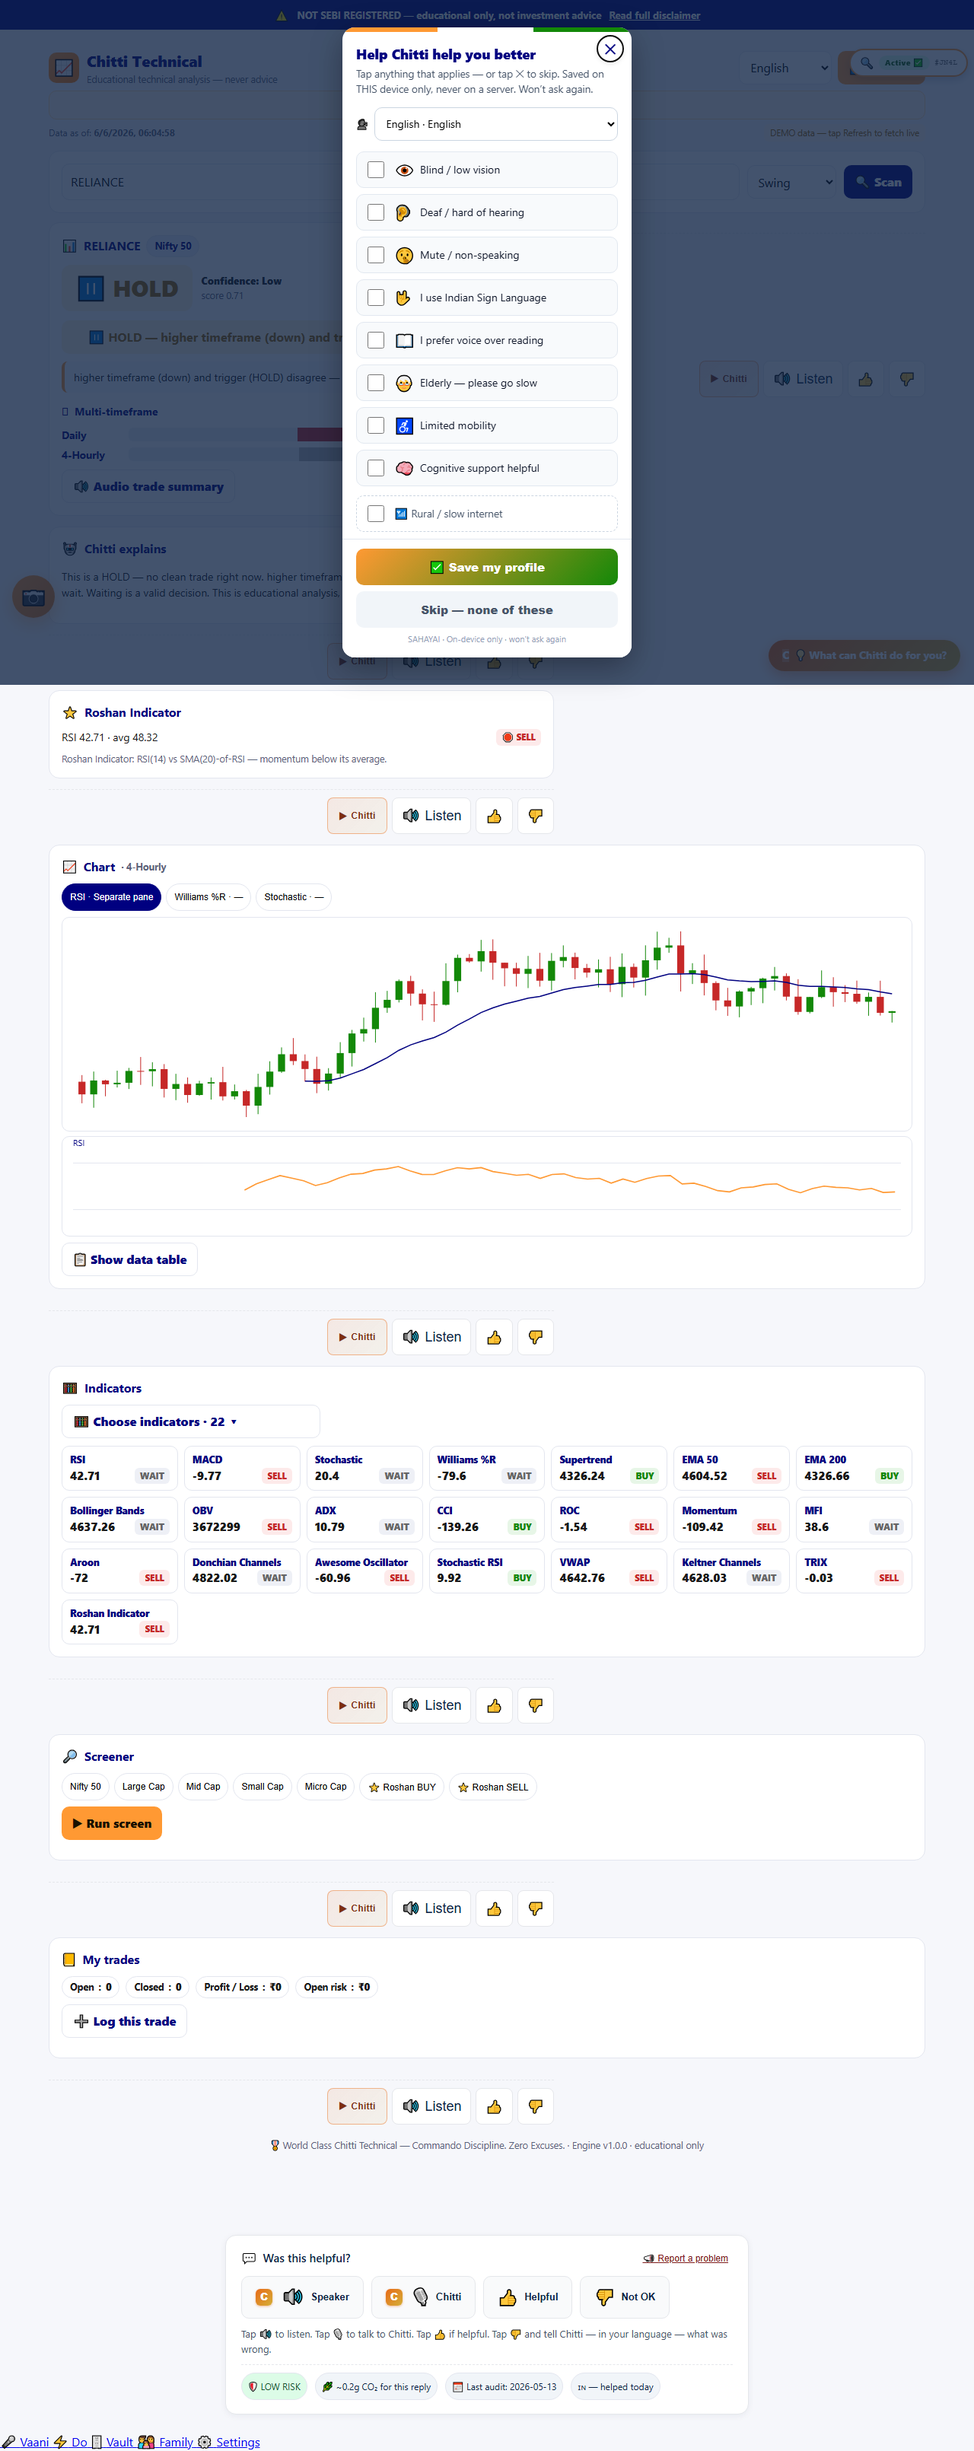
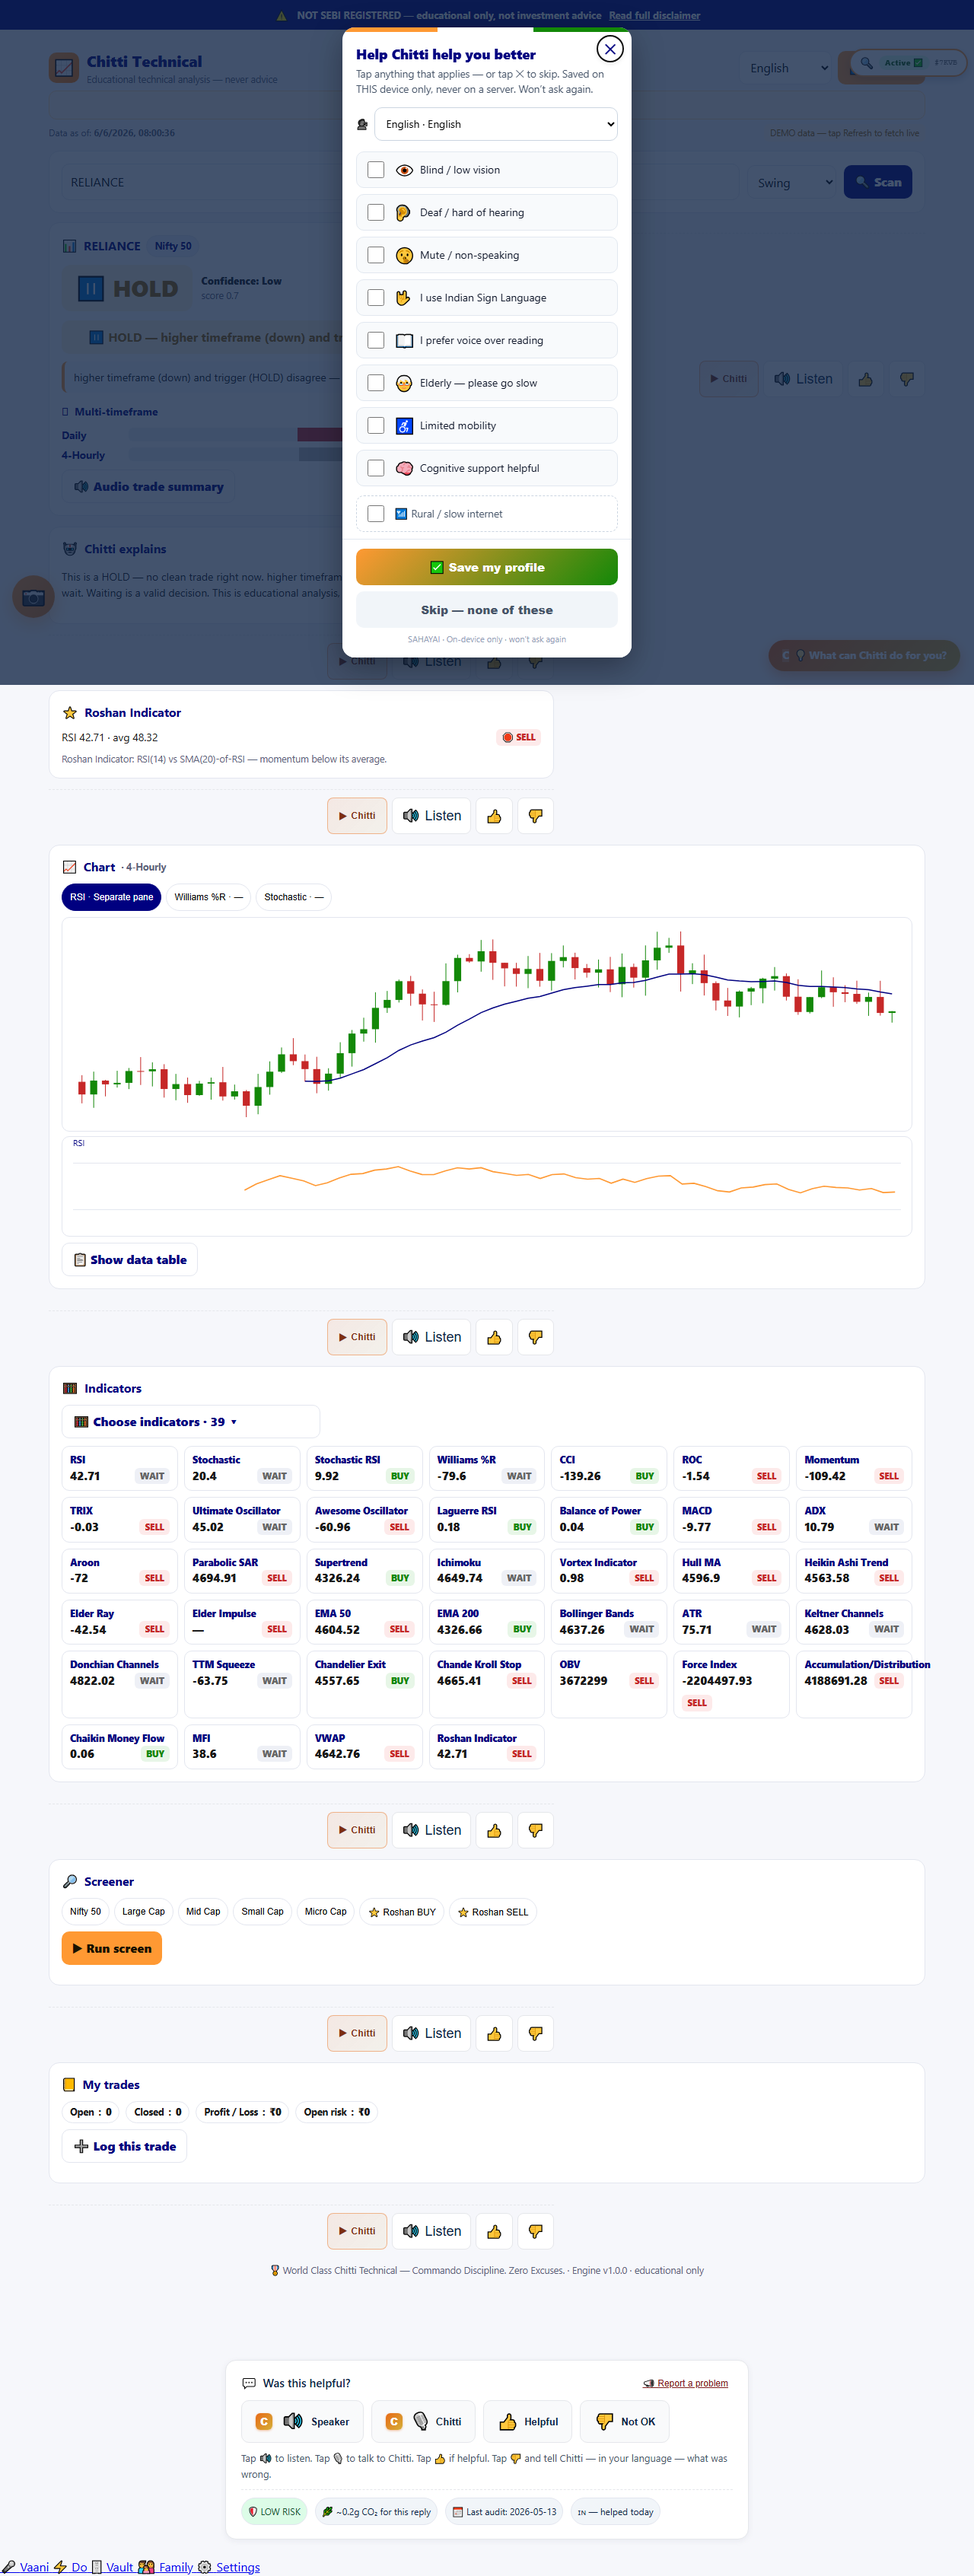
feat(technical): full 39-indicator catalogue in the dropdown (Sire: include ALL)
The legacy scanner had ~38 indicators; I'd only ported 22. Added the missing 17 to the
deterministic engine so the dropdown lists the complete catalogue:
Ultimate Oscillator, Parabolic SAR, Ichimoku, Elder Ray, Elder Impulse, ATR, Force Index,
Accumulation/Distribution, Chaikin Money Flow, TTM Squeeze, Vortex, Chandelier Exit, Hull MA,
Laguerre RSI, Heikin Ashi Trend, Balance of Power, Chande Kroll Stop (+ wma/hma helpers).
INDICATOR_NAMES now lists 39 (grouped: momentum / trend / volatility / volume / custom-Roshan);
each carries BUY/SELL/WAIT (ATR is neutral/WAIT — abstains from the vote).

QA (self-run): node 270/0 — incl. a new "no phantoms" check (every dropdown name is actually
computed by indicatorSet) + all 28 catalogue indicators verified; guardrails still 0/96.
Playwright 27/0, 0 page errors — indicator_dropdown_lists_all = 39, toggle none=0/all=39.

diff --git a/chitti_technical_engine.js b/chitti_technical_engine.js
@@ -305,10 +305,158 @@
     return out;
   }
 
-  // master list — exactly what indicatorSet can produce (drives the indicator dropdown)
-  var INDICATOR_NAMES = ['RSI', 'MACD', 'Stochastic', 'Williams %R', 'Supertrend', 'EMA 50', 'EMA 200',
-    'Bollinger Bands', 'OBV', 'ADX', 'CCI', 'ROC', 'Momentum', 'MFI', 'Aroon', 'Donchian Channels',
-    'Awesome Oscillator', 'Stochastic RSI', 'VWAP', 'Keltner Channels', 'TRIX', 'Roshan Indicator'];
+  // ── full catalogue extras (so the dropdown matches the legacy scanner) ──
+  function wma(values, period) {
+    var out = new Array(values.length).fill(null), denom = period * (period + 1) / 2;
+    for (var i = period - 1; i < values.length; i++) { var s = 0; for (var k = 0; k < period; k++) s += values[i - k] * (period - k); out[i] = s / denom; }
+    return out;
+  }
+  function hma(values, period) {
+    period = period || 20;
+    var half = wma(values, Math.max(1, Math.floor(period / 2))), full = wma(values, period);
+    var raw = values.map(function (_, i) { return (half[i] == null || full[i] == null) ? null : 2 * half[i] - full[i]; });
+    var rawC = raw.filter(function (v) { return v != null; });
+    var h = wma(rawC, Math.max(1, Math.round(Math.sqrt(period))));
+    var out = new Array(values.length).fill(null), off = values.length - h.length;
+    for (var i = 0; i < h.length; i++) out[off + i] = h[i];
+    return out;
+  }
+  function ultimateOsc(candles) {
+    var bp = [], tr = [];
+    for (var i = 0; i < candles.length; i++) {
+      if (i === 0) { bp.push(0); tr.push(candles[i].high - candles[i].low); continue; }
+      var pc = candles[i - 1].close, minLP = Math.min(candles[i].low, pc), maxHP = Math.max(candles[i].high, pc);
+      bp.push(candles[i].close - minLP); tr.push(maxHP - minLP);
+    }
+    function avg(n, i) { var sb = 0, st = 0; for (var j = i - n + 1; j <= i; j++) { sb += bp[j]; st += tr[j]; } return st === 0 ? 0 : sb / st; }
+    var out = new Array(candles.length).fill(null);
+    for (var i = 27; i < candles.length; i++) out[i] = 100 * (4 * avg(7, i) + 2 * avg(14, i) + avg(28, i)) / 7;
+    return out;
+  }
+  function psar(candles, step, maxAf) {
+    step = step || 0.02; maxAf = maxAf || 0.2;
+    var out = new Array(candles.length).fill(null);
+    if (candles.length < 2) return out;
+    var bull = true, af = step, ep = candles[0].high, sar = candles[0].low;
+    for (var i = 1; i < candles.length; i++) {
+      sar = sar + af * (ep - sar);
+      if (bull) {
+        if (candles[i].low < sar) { bull = false; sar = ep; ep = candles[i].low; af = step; }
+        else if (candles[i].high > ep) { ep = candles[i].high; af = Math.min(maxAf, af + step); }
+      } else {
+        if (candles[i].high > sar) { bull = true; sar = ep; ep = candles[i].high; af = step; }
+        else if (candles[i].low < ep) { ep = candles[i].low; af = Math.min(maxAf, af + step); }
+      }
+      out[i] = sar;
+    }
+    return out;
+  }
+  function ichimoku(candles) {
+    function hh(n, i) { var m = -Infinity; for (var j = i - n + 1; j <= i; j++) if (candles[j] && candles[j].high > m) m = candles[j].high; return m; }
+    function ll(n, i) { var m = Infinity; for (var j = i - n + 1; j <= i; j++) if (candles[j] && candles[j].low < m) m = candles[j].low; return m; }
+    var i = candles.length - 1; if (i < 52) return null;
+    var tenkan = (hh(9, i) + ll(9, i)) / 2, kijun = (hh(26, i) + ll(26, i)) / 2;
+    var sa = (tenkan + kijun) / 2, sb = (hh(52, i) + ll(52, i)) / 2;
+    return { cloudTop: Math.max(sa, sb), cloudBot: Math.min(sa, sb) };
+  }
+  function forceIndex(candles, period) {
+    period = period || 13; var fi = [0];
+    for (var i = 1; i < candles.length; i++) fi.push((candles[i].close - candles[i - 1].close) * (candles[i].volume || 0));
+    return ema(fi, period);
+  }
+  function adl(candles) {
+    var out = [], run = 0;
+    for (var i = 0; i < candles.length; i++) { var c = candles[i], hl = c.high - c.low, mfm = hl === 0 ? 0 : ((c.close - c.low) - (c.high - c.close)) / hl; run += mfm * (c.volume || 0); out.push(run); }
+    return out;
+  }
+  function cmf(candles, period) {
+    period = period || 20; var out = new Array(candles.length).fill(null);
+    for (var i = period - 1; i < candles.length; i++) {
+      var mfv = 0, vol = 0;
+      for (var j = i - period + 1; j <= i; j++) { var c = candles[j], hl = c.high - c.low, m = hl === 0 ? 0 : ((c.close - c.low) - (c.high - c.close)) / hl; mfv += m * (c.volume || 0); vol += (c.volume || 0); }
+      out[i] = vol === 0 ? 0 : mfv / vol;
+    }
+    return out;
+  }
+  function ttmSqueeze(candles) {
+    var cl = closes(candles), bb = bollinger(cl, 20, 2), kc = keltner(candles, 20, 1.5), s20 = sma(cl, 20), i = candles.length - 1;
+    var mom = (cl[i] != null && s20[i] != null) ? cl[i] - s20[i] : 0;
+    var on = (bb.upper[i] != null && kc.upper[i] != null) ? (bb.upper[i] < kc.upper[i] && bb.lower[i] > kc.lower[i]) : false;
+    return { on: on, mom: mom };
+  }
+  function vortex(candles, period) {
+    period = period || 14; var i = candles.length - 1; if (i < period) return null;
+    var vmP = 0, vmM = 0, tr = 0;
+    for (var j = i - period + 1; j <= i; j++) {
+      if (j === 0) continue;
+      vmP += Math.abs(candles[j].high - candles[j - 1].low); vmM += Math.abs(candles[j].low - candles[j - 1].high);
+      var pc = candles[j - 1].close; tr += Math.max(candles[j].high - candles[j].low, Math.abs(candles[j].high - pc), Math.abs(candles[j].low - pc));
+    }
+    return tr === 0 ? null : { viP: vmP / tr, viM: vmM / tr };
+  }
+  function chandelier(candles, period, mult) {
+    period = period || 22; mult = mult || 3; var i = candles.length - 1; if (i < period) return null;
+    var a = last(atr(candles, period)); if (a == null) return null;
+    var hh = -Infinity, ll = Infinity;
+    for (var j = i - period + 1; j <= i; j++) { if (candles[j].high > hh) hh = candles[j].high; if (candles[j].low < ll) ll = candles[j].low; }
+    return { longStop: hh - mult * a, shortStop: ll + mult * a };
+  }
+  function laguerreRsi(values, gamma) {
+    gamma = gamma || 0.5; var L0 = 0, L1 = 0, L2 = 0, L3 = 0, out = new Array(values.length).fill(null);
+    for (var i = 0; i < values.length; i++) {
+      var p = values[i], L0p = L0, L1p = L1, L2p = L2, L3p = L3;
+      L0 = (1 - gamma) * p + gamma * L0p; L1 = -gamma * L0 + L0p + gamma * L1p; L2 = -gamma * L1 + L1p + gamma * L2p; L3 = -gamma * L2 + L2p + gamma * L3p;
+      var cu = 0, cd = 0;
+      if (L0 >= L1) cu += L0 - L1; else cd += L1 - L0;
+      if (L1 >= L2) cu += L1 - L2; else cd += L2 - L1;
+      if (L2 >= L3) cu += L2 - L3; else cd += L3 - L2;
+      out[i] = (cu + cd) === 0 ? 0 : cu / (cu + cd);
+    }
+    return out;
+  }
+  function heikinTrend(candles) {
+    var haOpen = candles[0].open, haClose = (candles[0].open + candles[0].high + candles[0].low + candles[0].close) / 4;
+    for (var i = 1; i < candles.length; i++) { var c = candles[i]; haOpen = (haOpen + haClose) / 2; haClose = (c.open + c.high + c.low + c.close) / 4; }
+    return { open: haOpen, close: haClose };
+  }
+  function balanceOfPower(candles, period) {
+    period = period || 14;
+    var bop = candles.map(function (c) { var r = c.high - c.low; return r === 0 ? 0 : (c.close - c.open) / r; });
+    return sma(bop, period);
+  }
+  function chandeKroll(candles, p, x, q) {
+    p = p || 10; x = x || 1; q = q || 9; var i = candles.length - 1; if (i < p + q) return null;
+    var a = atr(candles, p), hStops = [], lStops = [];
+    for (var k = 0; k < candles.length; k++) {
+      if (a[k] == null) { hStops.push(null); lStops.push(null); continue; }
+      var hh = -Infinity, ll = Infinity;
+      for (var j = Math.max(0, k - p + 1); j <= k; j++) { if (candles[j].high > hh) hh = candles[j].high; if (candles[j].low < ll) ll = candles[j].low; }
+      hStops.push(hh - x * a[k]); lStops.push(ll + x * a[k]);
+    }
+    var longStop = -Infinity, shortStop = Infinity;
+    for (var j2 = i - q + 1; j2 <= i; j2++) { if (hStops[j2] != null && hStops[j2] > longStop) longStop = hStops[j2]; if (lStops[j2] != null && lStops[j2] < shortStop) shortStop = lStops[j2]; }
+    return { longStop: longStop, shortStop: shortStop };
+  }
+  function elderRay(candles, period) {
+    period = period || 13; var e = last(ema(closes(candles), period)); if (e == null) return null;
+    var c = candles[candles.length - 1]; return { bull: c.high - e, bear: c.low - e };
+  }
+  function elderImpulse(candles) {
+    var cl = closes(candles), e = ema(cl, 13), m = macd(cl), i = candles.length - 1;
+    if (e[i] == null || e[i - 1] == null || m.hist[i] == null || m.hist[i - 1] == null) return null;
+    return { emaUp: e[i] > e[i - 1], histUp: m.hist[i] > m.hist[i - 1] };
+  }
+
+  // master list — exactly what indicatorSet can produce (drives the indicator dropdown). 39 indicators.
+  var INDICATOR_NAMES = [
+    'RSI', 'Stochastic', 'Stochastic RSI', 'Williams %R', 'CCI', 'ROC', 'Momentum', 'TRIX',
+    'Ultimate Oscillator', 'Awesome Oscillator', 'Laguerre RSI', 'Balance of Power',
+    'MACD', 'ADX', 'Aroon', 'Parabolic SAR', 'Supertrend', 'Ichimoku', 'Vortex Indicator',
+    'Hull MA', 'Heikin Ashi Trend', 'Elder Ray', 'Elder Impulse', 'EMA 50', 'EMA 200',
+    'Bollinger Bands', 'ATR', 'Keltner Channels', 'Donchian Channels', 'TTM Squeeze',
+    'Chandelier Exit', 'Chande Kroll Stop',
+    'OBV', 'Force Index', 'Accumulation/Distribution', 'Chaikin Money Flow', 'MFI', 'VWAP',
+    'Roshan Indicator'];
 
   // ───────────────────────── per-indicator signals ─────────────────────────
   function indicatorSet(candles) {
@@ -359,6 +507,25 @@
     var kc = keltner(candles); var kU = last(kc.upper), kL = last(kc.lower), kM = last(kc.mid);
     if (kU != null) add('Keltner Channels', kM, p2 >= kU ? 'SELL' : (p2 <= kL ? 'BUY' : 'WAIT'), 'Keltner(20): band touch');
     var vtx = last(trix(cl)); if (vtx != null) add('TRIX', vtx, vtx > 0 ? 'BUY' : (vtx < 0 ? 'SELL' : 'WAIT'), 'TRIX(15): >0 BUY');
+
+    // ── full-catalogue indicators ──
+    var vuo = last(ultimateOsc(candles)); if (vuo != null) add('Ultimate Oscillator', vuo, vuo < 30 ? 'BUY' : (vuo > 70 ? 'SELL' : 'WAIT'), 'UO: <30 BUY, >70 SELL');
+    var vsar = last(psar(candles)); if (vsar != null) add('Parabolic SAR', vsar, p2 > vsar ? 'BUY' : 'SELL', 'PSAR: price above = BUY');
+    var ich = ichimoku(candles); if (ich) add('Ichimoku', round2(ich.cloudTop), p2 > ich.cloudTop ? 'BUY' : (p2 < ich.cloudBot ? 'SELL' : 'WAIT'), 'Ichimoku: above cloud BUY');
+    var vvor = vortex(candles); if (vvor) add('Vortex Indicator', round2(vvor.viP), vvor.viP > vvor.viM ? 'BUY' : 'SELL', 'Vortex(14): VI+>VI- BUY');
+    var vhma = last(hma(cl, 20)); if (vhma != null) add('Hull MA', round2(vhma), p2 > vhma ? 'BUY' : 'SELL', 'Hull MA(20): price above BUY');
+    var hat = heikinTrend(candles); if (hat) add('Heikin Ashi Trend', round2(hat.close), hat.close > hat.open ? 'BUY' : 'SELL', 'Heikin Ashi: green = BUY');
+    var er = elderRay(candles); if (er) add('Elder Ray', round2(er.bull), (er.bull > 0 && er.bear > 0) ? 'BUY' : ((er.bull < 0 && er.bear < 0) ? 'SELL' : 'WAIT'), 'Elder Ray: bull/bear vs EMA13');
+    var eimp = elderImpulse(candles); if (eimp) add('Elder Impulse', null, (eimp.emaUp && eimp.histUp) ? 'BUY' : ((!eimp.emaUp && !eimp.histUp) ? 'SELL' : 'WAIT'), 'Elder Impulse: EMA13 + MACD hist');
+    var vatr = last(atr(candles, 14)); if (vatr != null) add('ATR', round2(vatr), 'WAIT', 'ATR(14): volatility unit for stops');
+    var ttm = ttmSqueeze(candles); if (ttm) add('TTM Squeeze', round2(ttm.mom), ttm.on ? 'WAIT' : (ttm.mom > 0 ? 'BUY' : 'SELL'), 'TTM: squeeze on = wait');
+    var vce = chandelier(candles); if (vce) add('Chandelier Exit', round2(vce.longStop), p2 > vce.longStop ? 'BUY' : 'SELL', 'Chandelier(22,3) trailing stop');
+    var vck = chandeKroll(candles); if (vck) add('Chande Kroll Stop', round2(vck.longStop), p2 > vck.longStop ? 'BUY' : 'SELL', 'Chande Kroll trailing stop');
+    var vfi = last(forceIndex(candles)); if (vfi != null) add('Force Index', round2(vfi), vfi > 0 ? 'BUY' : 'SELL', 'Force Index(13): >0 BUY');
+    var vadl = adl(candles); var adlSlope = vadl.length > 5 ? vadl[vadl.length - 1] - vadl[vadl.length - 6] : 0; add('Accumulation/Distribution', round2(last(vadl)), adlSlope > 0 ? 'BUY' : (adlSlope < 0 ? 'SELL' : 'WAIT'), 'A/D line slope');
+    var vcmf = last(cmf(candles)); if (vcmf != null) add('Chaikin Money Flow', Math.round(vcmf * 1000) / 1000, vcmf > 0 ? 'BUY' : (vcmf < 0 ? 'SELL' : 'WAIT'), 'CMF(20): >0 BUY');
+    var vlag = last(laguerreRsi(cl)); if (vlag != null) add('Laguerre RSI', Math.round(vlag * 100) / 100, vlag < 0.2 ? 'BUY' : (vlag > 0.8 ? 'SELL' : 'WAIT'), 'Laguerre RSI: <0.2 BUY, >0.8 SELL');
+    var vbop = last(balanceOfPower(candles)); if (vbop != null) add('Balance of Power', Math.round(vbop * 1000) / 1000, vbop > 0 ? 'BUY' : (vbop < 0 ? 'SELL' : 'WAIT'), 'BOP: >0 buyers in control');
 
     var ro = roshan(cl);
     add('Roshan Indicator', ro.value, ro.signal, 'Roshan: RSI(14) vs SMA20 of RSI (custom)');

diff --git a/chitti-technical/handover/TEST_REPORT.md b/chitti-technical/handover/TEST_REPORT.md
@@ -19,14 +19,16 @@
 ## Headline
 | Suite | Result |
 |---|---|
-| Node logic test ([tools/test_technical.mjs](../../tools/test_technical.mjs)) | **252 PASS / 0 FAIL** |
+| Node logic test ([tools/test_technical.mjs](../../tools/test_technical.mjs)) | **270 PASS / 0 FAIL** |
 | Playwright cert ([tools/cert_technical.mjs](../../tools/cert_technical.mjs)) | **27 PASS / 0 FAIL · 0 page errors** |
 
 ## Indicator dropdown + BUY · SELL · TARGET · SL (Sire's ask)
-✅ **Indicator dropdown** — `ITEM indicator_dropdown_lists_all — 22 indicators`; check/uncheck filters the
-grid (`none=0 all=22`), with All/None; the engine computes 22 indicators (RSI, MACD, Stochastic,
-Williams %R, Supertrend, EMA50/200, Bollinger, OBV, ADX, CCI, ROC, Momentum, MFI, Aroon, Donchian,
-Awesome Oscillator, Stochastic RSI, VWAP, Keltner, TRIX, Roshan) — each carries BUY/SELL/WAIT.
+✅ **Indicator dropdown — FULL 39-indicator catalogue** (matching the legacy scanner; Sire: "include ALL").
+`ITEM indicator_dropdown_lists_all — 39 indicators`; check/uncheck filters the grid (`none=0 all=39`),
+with All/None; every dropdown name is verified to actually compute (node test: "no phantoms"). Added the
+17 that were missing: Ultimate Oscillator, Parabolic SAR, Ichimoku, Elder Ray, Elder Impulse, ATR,
+Force Index, Accumulation/Distribution, Chaikin Money Flow, TTM Squeeze, Vortex, Chandelier Exit,
+Hull MA, Laguerre RSI, Heikin Ashi Trend, Balance of Power, Chande Kroll Stop — each carries BUY/SELL/WAIT.
 ✅ **BUY · SELL · TARGET · SL** — `ITEM trade_plan_BUY_SELL_TARGET_SL — HDFCBANK/swing SELL → all 4 present`.
 A four-cell plan sits at the top of every directional signal: 🟢 BUY · 🔴 SELL (entry side highlighted) ·
 🎯 TARGET(s) · 🛑 STOP LOSS; HOLD shows an honest "no trade — wait". Screenshot:

diff --git a/chitti-technical/skills/FEATURES.md b/chitti-technical/skills/FEATURES.md
@@ -18,9 +18,12 @@
 - **NSE stock / index / ETF analysis** via the existing `chitti-shares-api` engine.
 - **All-stocks type-ahead dropdown** — 750 NSE names across all 5 cap tiers; type "REL" → RELAXO,
   RELIANCE, RELIGARE, RPOWER, RELINFRA (symbol + company name + tier badge), keyboard + tap + voice.
-- **Indicator dropdown (22 indicators)** — choose which indicators to show (All/None); each carries
-  BUY/SELL/WAIT. RSI · MACD · Stochastic · Williams %R · Supertrend · EMA · Bollinger · OBV · ADX · CCI ·
-  ROC · Momentum · MFI · Aroon · Donchian · Awesome Oscillator · Stochastic RSI · VWAP · Keltner · TRIX · Roshan.
+- **Indicator dropdown (39 indicators — the full scanner catalogue)** — choose which to show (All/None);
+  each carries BUY/SELL/WAIT. RSI · Stochastic · Stochastic RSI · Williams %R · CCI · ROC · Momentum · TRIX ·
+  Ultimate Oscillator · Awesome Oscillator · Laguerre RSI · Balance of Power · MACD · ADX · Aroon ·
+  Parabolic SAR · Supertrend · Ichimoku · Vortex · Hull MA · Heikin Ashi Trend · Elder Ray · Elder Impulse ·
+  EMA 50 · EMA 200 · Bollinger Bands · ATR · Keltner · Donchian · TTM Squeeze · Chandelier Exit ·
+  Chande Kroll Stop · OBV · Force Index · Accumulation/Distribution · Chaikin Money Flow · MFI · VWAP · Roshan.
 - **BUY · SELL · TARGET · SL plan** — a four-cell trade plan on every directional signal (entry side
   highlighted), plus the full entry-zone / stop / 3 targets / RR / position-size block below it.
 
